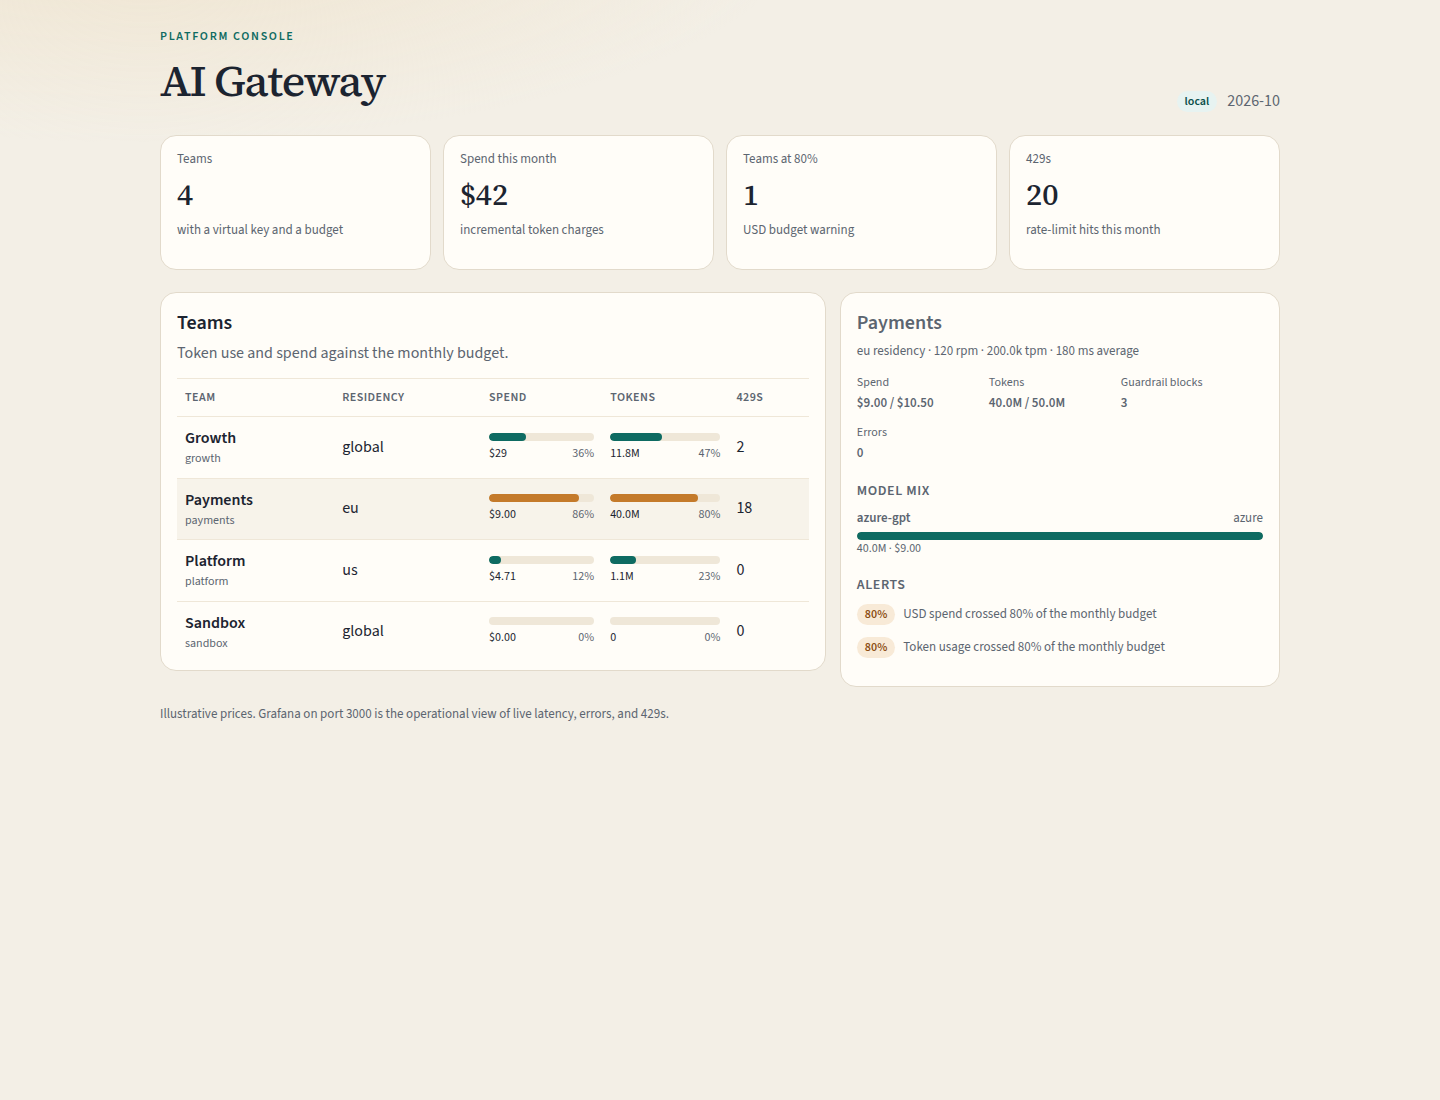
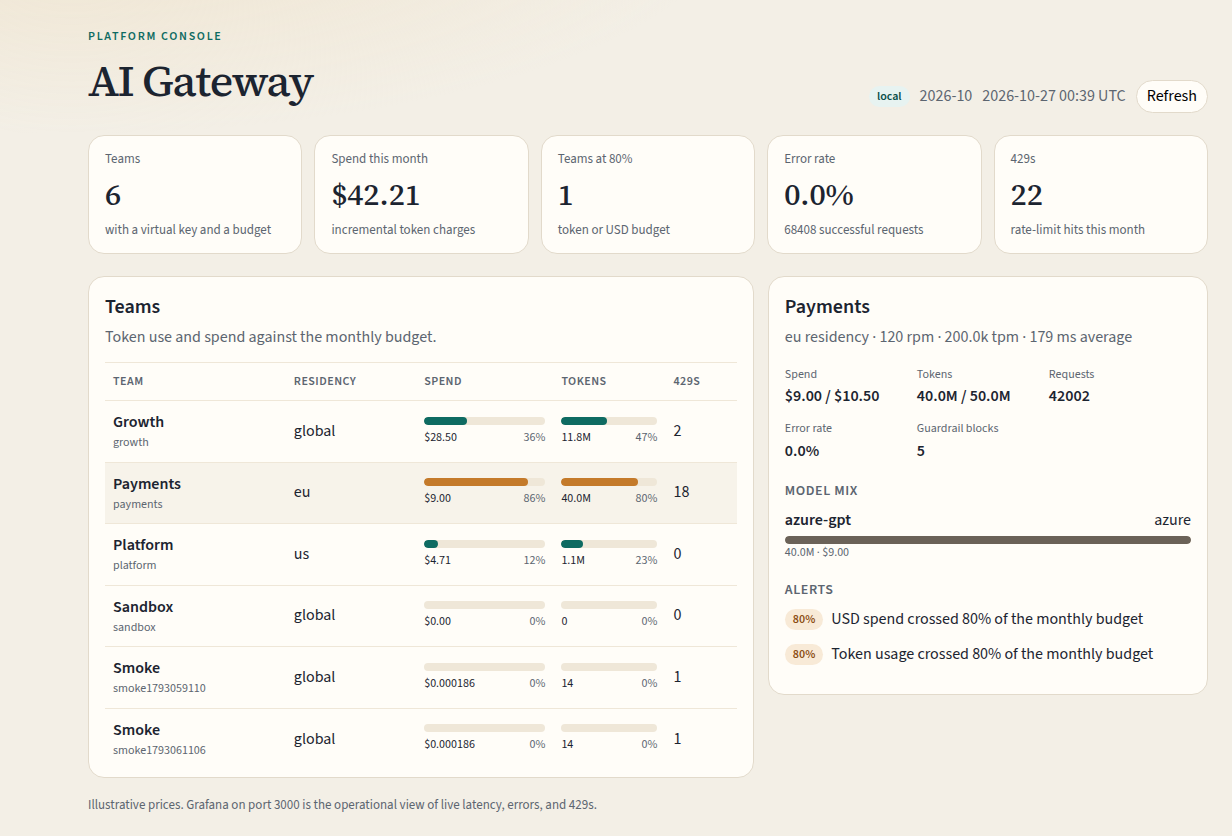
Refresh the console screenshot and add the Grafana view.
The dashboard image is cropped to the seeded month view, including the timestamp and refresh control.

diff --git a/README.md b/README.md
@@ -50,6 +50,8 @@ make up
 
 Then open the dashboard at <http://localhost:5173>, Grafana at <http://localhost:3000> (anonymous Viewer), and Prometheus at <http://localhost:9090>. The platform API is on port 8080, LiteLLM on 4000, and the mock's fault switch on 8088.
 
+![Latency, error rate, and spend in Grafana](docs/images/grafana.png)
+
 `make up` builds the images and waits until the health check passes. It does not pull a Llama weight. `make pull-model` fetches `llama3.2` into Ollama if you want the self-hosted route for real.
 
 A usage report, once `pip install -e .` has put the CLI on your path:
